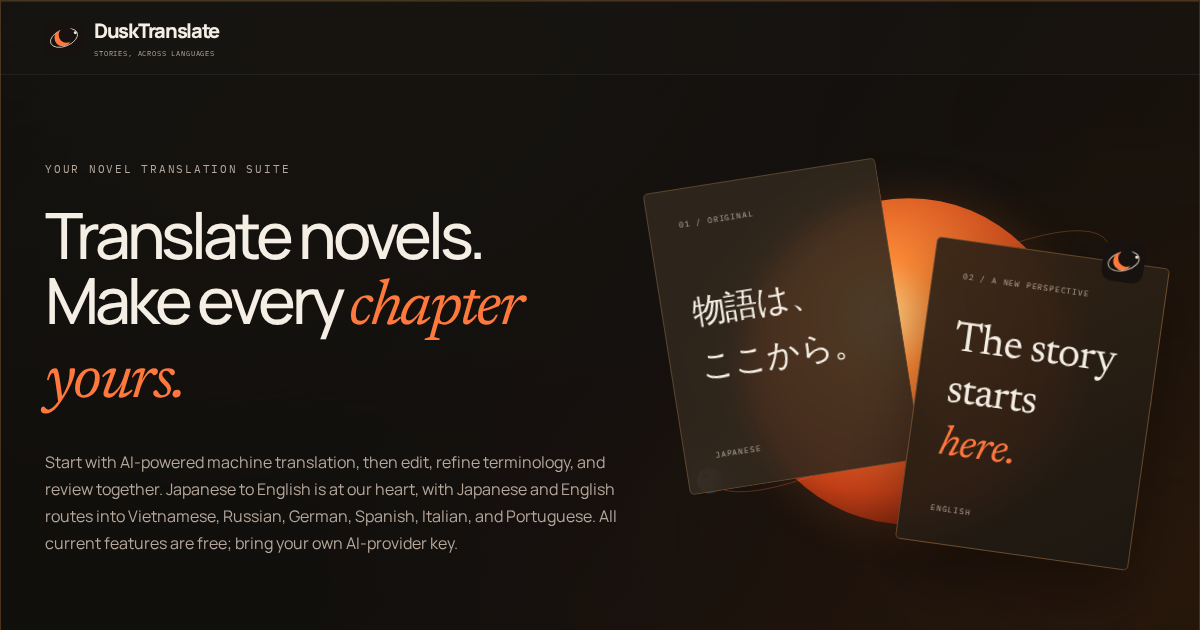
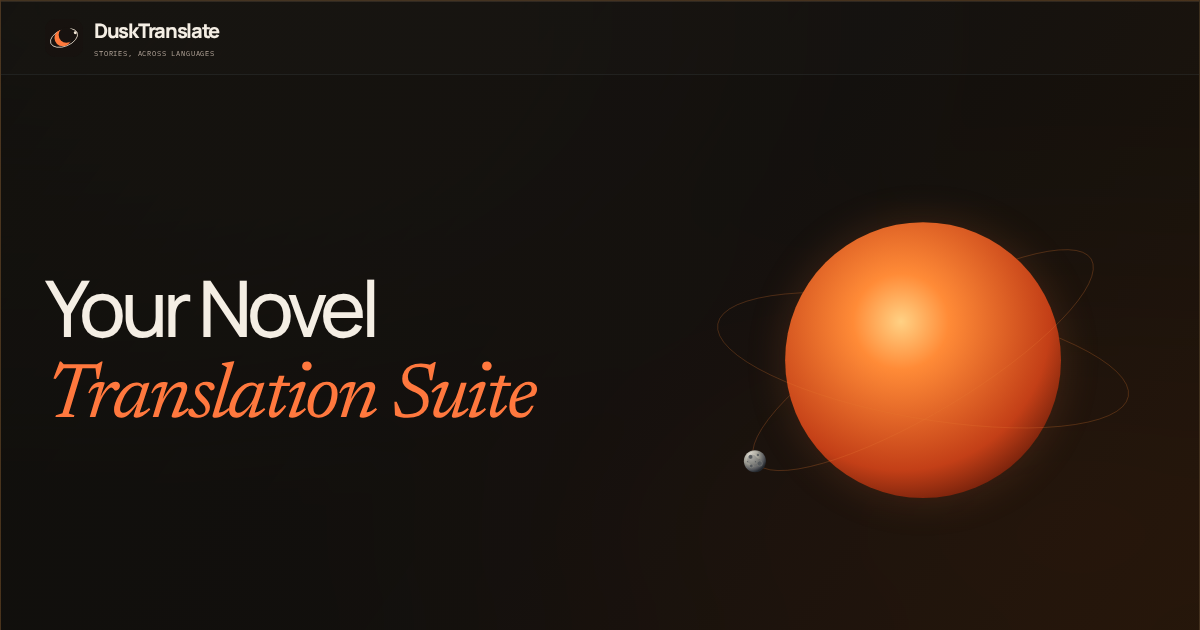
Simplify hero and library branding

diff --git a/web/index.html b/web/index.html
@@ -40,7 +40,7 @@
   <div class="app-window">
     <header class="masthead"><div class="window-lights" aria-hidden="true"><i></i><i></i><i></i></div><a href="/" id="brand" aria-label="DuskTranslate home"><img class="app-logo" src="/brand/dusk-mark.svg" width="38" height="38" alt=""><span class="brand-copy"><strong>DuskTranslate</strong><span>STORIES, ACROSS LANGUAGES</span></span></a><span id="environment-badge" class="environment-badge" hidden></span><nav aria-label="Account and appearance"><button id="feedback" hidden>Feedback</button><a class="pricing-nav-link" id="pricing-nav-link" href="/pricing">Plans</a><button id="theme" aria-label="Switch color theme"><svg class="icon"><use href="#i-theme"/></svg></button><button id="account">Sign in</button></nav></header>
     <section id="welcome" class="welcome" aria-labelledby="welcome-title">
-      <div class="welcome-copy"><p class="eyebrow">YOUR NOVEL TRANSLATION SUITE</p><h1 id="welcome-title">Translate novels.<br>Make every <em>chapter yours.</em></h1><p class="welcome-intro">Start with AI-powered machine translation, then edit, refine terminology, and review together. Japanese to English is at our heart, with translation between English and Vietnamese, Russian, German, Spanish, Italian, or Portuguese. All current features are free; bring your own AI-provider key.</p><div class="welcome-actions"><button class="primary" id="welcome-signin">Sign in to your library <svg class="icon button-arrow" aria-hidden="true"><use href="#i-arrow"/></svg></button><button id="welcome-signup">Create an account</button><button id="welcome-reader">Open EPUB reader</button></div><p class="welcome-private">AI-provider charges may apply. Projects can sync to your account. API keys are session-only unless you opt in to device storage.</p><div class="welcome-links"><button class="guest-link" id="welcome-guest">Use locally without an account</button><a href="/features.html">Explore the translation suite</a></div></div>
+      <div class="welcome-copy"><h1 id="welcome-title">Your novel<br><em>translation suite.</em></h1><p class="welcome-intro">Bring in an EPUB, TXT, or web novel. Draft with your preferred AI model, refine every chapter, and export a finished book.</p><div class="welcome-actions"><button class="primary" id="welcome-signin">Sign in to your library <svg class="icon button-arrow" aria-hidden="true"><use href="#i-arrow"/></svg></button><button id="welcome-signup">Create an account</button><button id="welcome-reader">Open EPUB reader</button></div><p class="welcome-private">Bring your own AI-provider key. Projects stay local unless you choose cloud sync.</p><div class="welcome-links"><button class="guest-link" id="welcome-guest">Use locally without an account</button><a href="/features.html">Explore features</a></div></div>
       <div class="welcome-art" tabindex="0" role="button" aria-label="Spin the translation planet. The pages fade while it turns.">
         <svg class="planet-scene" viewBox="0 0 690 560" aria-hidden="true">
           <defs>
@@ -108,7 +108,6 @@
     </section>
     <main id="library" hidden>
       <aside class="sidebar" aria-label="Library navigation">
-        <div class="sidebar-heading"><img class="app-logo" src="/brand/dusk-mark.svg" width="44" height="44" alt=""><div>Translation projects<br><strong>and EPUB reader.</strong></div></div>
         <p class="eyebrow">COLLECTIONS</p>
         <nav class="collection-nav" aria-label="Collections">
           <button id="nav-active" aria-current="page"><svg class="icon"><use href="#i-library"/></svg>My library<span id="active-count">0</span></button>
@@ -117,18 +116,18 @@
           <button type="button" id="whats-new"><svg class="icon"><use href="#i-list"/></svg>What’s New</button>
           <button type="button" id="feedback-inbox" hidden><svg class="icon"><use href="#i-inbox"/></svg>Feedback inbox</button>
         </nav>
-        <div class="sidebar-edition"><p class="eyebrow">READ OR TRANSLATE</p><div class="book-art" aria-hidden="true"><div class="book b3">READ</div><div class="book b2">TRANSLATE</div><div class="book b1">CONTINUE<span>日 / EN</span></div></div><p>Open any EPUB or<br>continue a project.</p></div>
+        <div class="sidebar-edition"><p class="eyebrow">READING ROOM</p><div class="book-art" aria-hidden="true"><div class="book b3">ORIGINAL</div><div class="book b2">DRAFT</div><div class="book b1">CONTINUE<span>日 / EN</span></div></div><p>Open a book or<br>continue your work.</p></div>
         <div class="storage-badge"><span class="status-dot" aria-hidden="true"></span><span id="storage-label">THIS BROWSER</span><small id="storage-caption">A library on this device</small></div>
       </aside>
       <div class="reading-room">
         <div class="room-breadcrumb"><span>Workspace <span aria-hidden="true">/</span> <strong id="collection-name">My library</strong></span><span class="language-pair">日本語 <svg class="icon"><use href="#i-arrow"/></svg> English</span></div>
-        <section class="room-heading"><div><p class="eyebrow">TRANSLATION PROJECTS</p><h1>Translate and manage <em>your books.</em></h1><p class="intro">Create a project, translate each chapter, then export TXT or EPUB.</p></div><div class="room-actions"><button id="library-reader">Open EPUB reader</button><button id="import-project">Import project</button><button class="primary" id="new-project">+ New project</button></div></section>
-        <section class="resume-strip" id="resume-strip" hidden aria-label="Most recently edited project"><svg class="icon resume-mark-icon" aria-hidden="true"><use href="#i-arrow"/></svg><div><p class="eyebrow">CONTINUE TRANSLATING</p><h2 id="resume-title"></h2><p id="resume-detail"></p></div><button id="resume-project">Resume project <svg class="icon"><use href="#i-arrow"/></svg></button></section>
+        <section class="room-heading"><div><p class="eyebrow">YOUR LIBRARY</p><h1>Your books, <em>all in one place.</em></h1><p class="intro">Import, edit, review, and export from one workspace.</p></div><div class="room-actions"><button id="library-reader">Open EPUB reader</button><button id="import-project">Import project</button><button class="primary" id="new-project">+ New project</button></div></section>
+        <section class="resume-strip" id="resume-strip" hidden aria-label="Most recently edited project"><svg class="icon resume-mark-icon" aria-hidden="true"><use href="#i-arrow"/></svg><div><p class="eyebrow">CONTINUE</p><h2 id="resume-title"></h2><p id="resume-detail"></p></div><button id="resume-project">Resume project <svg class="icon"><use href="#i-arrow"/></svg></button></section>
         <div class="collection-heading"><h2><span id="collection-title">On your desk</span> <span id="count">0</span></h2><span>Recently edited first</span></div>
         <div class="filters"><label class="search-label"><span class="sr-only">Find a project</span><svg class="icon" aria-hidden="true"><use href="#i-search"/></svg><input type="search" id="search" placeholder="Find a book or project…"><kbd aria-hidden="true">/</kbd></label><label class="filter-label"><span class="sr-only">Show</span><select id="filter" aria-label="Show projects"><option value="active">Active projects</option><option value="archived">Archived projects</option></select></label><div class="view-switch" role="group" aria-label="Project layout"><button id="view-grid" aria-label="Grid view" aria-pressed="true"><svg class="icon"><use href="#i-grid"/></svg></button><button id="view-list" aria-label="List view" aria-pressed="false"><svg class="icon"><use href="#i-list"/></svg></button></div><button id="refresh">Refresh</button></div>
         <p id="library-status" role="status"></p><section id="projects" class="project-grid" aria-label="Projects"></section>
         <div class="privacy-note"><span class="note-symbol" aria-hidden="true">*</span><p id="storage-info">Projects are saved on this device. Sign in for your cloud library.</p></div>
-        <footer><span>DUSKTRANSLATE</span><nav class="legal-links" aria-label="Legal"><a href="/privacy.html" target="_blank" rel="noopener">Privacy</a><a href="/terms.html" target="_blank" rel="noopener">Terms</a><a href="/cookies.html" target="_blank" rel="noopener">Cookies</a><a href="/guides/api-keys.html" target="_blank" rel="noopener">API key guide</a></nav><span>AI keys are stored only when you opt in.</span></footer>
+        <footer class="library-footer"><nav class="legal-links" aria-label="Legal"><a href="/privacy.html" target="_blank" rel="noopener">Privacy</a><a href="/terms.html" target="_blank" rel="noopener">Terms</a><a href="/cookies.html" target="_blank" rel="noopener">Cookies</a><a href="/guides/api-keys.html" target="_blank" rel="noopener">API key guide</a></nav></footer>
       </div>
     </main>
   <section id="workspace" hidden><div class="workspace-meta" hidden><button id="back">Library</button><strong id="project-title"></strong><span id="save-status" role="status">Loading…</span><button id="save-now">Save now</button><button id="backup">Download backup</button></div><iframe id="editor" title="Chapter translation workspace" allow="clipboard-write"></iframe></section>

diff --git a/web/src/style.css b/web/src/style.css
@@ -63,4 +63,5 @@ dialog{width:min(500px,calc(100% - 24px));max-height:90dvh;overflow:auto;color:v
 .whats-new-dialog{width:min(650px,calc(100% - 24px))}.release-note{padding:18px 0;border-bottom:1px solid var(--border)}.release-note h3{margin:4px 0 10px}.release-note ul{padding-left:20px;line-height:1.65}
 .release-letter{line-height:1.75;margin:16px 0}.release-signature{font-weight:600;margin:22px 0}
 .environment-badge{padding:5px 8px;border:1px solid #d9772f;border-radius:999px;background:#3b1d0c;color:#ffd4ad;font:8px 'DM Mono',monospace;letter-spacing:.1em;text-transform:uppercase;white-space:nowrap}
+.library-footer{justify-content:center}.library-footer .legal-links{justify-content:center}
 @media(max-width:900px){.environment-badge{position:fixed;z-index:90;right:12px;bottom:12px;box-shadow:0 6px 24px #0008}.environment-badge[data-environment="preview"]{max-width:120px;overflow:hidden;text-overflow:ellipsis}}

diff --git a/web/src/main.js b/web/src/main.js
@@ -737,7 +737,7 @@ function render() {
   $('active-count').textContent=String(projects.filter(p=>!p.archived).length);
   $('archive-count').textContent=String(projects.filter(p=>p.archived).length);
   $('invite-count').textContent=String(invitations.length);
-  $('collection-title').textContent=inboxView?'Project invitations':archived?'Archived projects':'Active translation projects';
+  $('collection-title').textContent=inboxView?'Project invitations':archived?'Archived projects':'Active projects';
   $('collection-name').textContent=inboxView?'Invites':archived?'Archive':'My library';
   ['active','archived','inbox'].forEach(value=>{
     const nav=$('nav-'+value);
